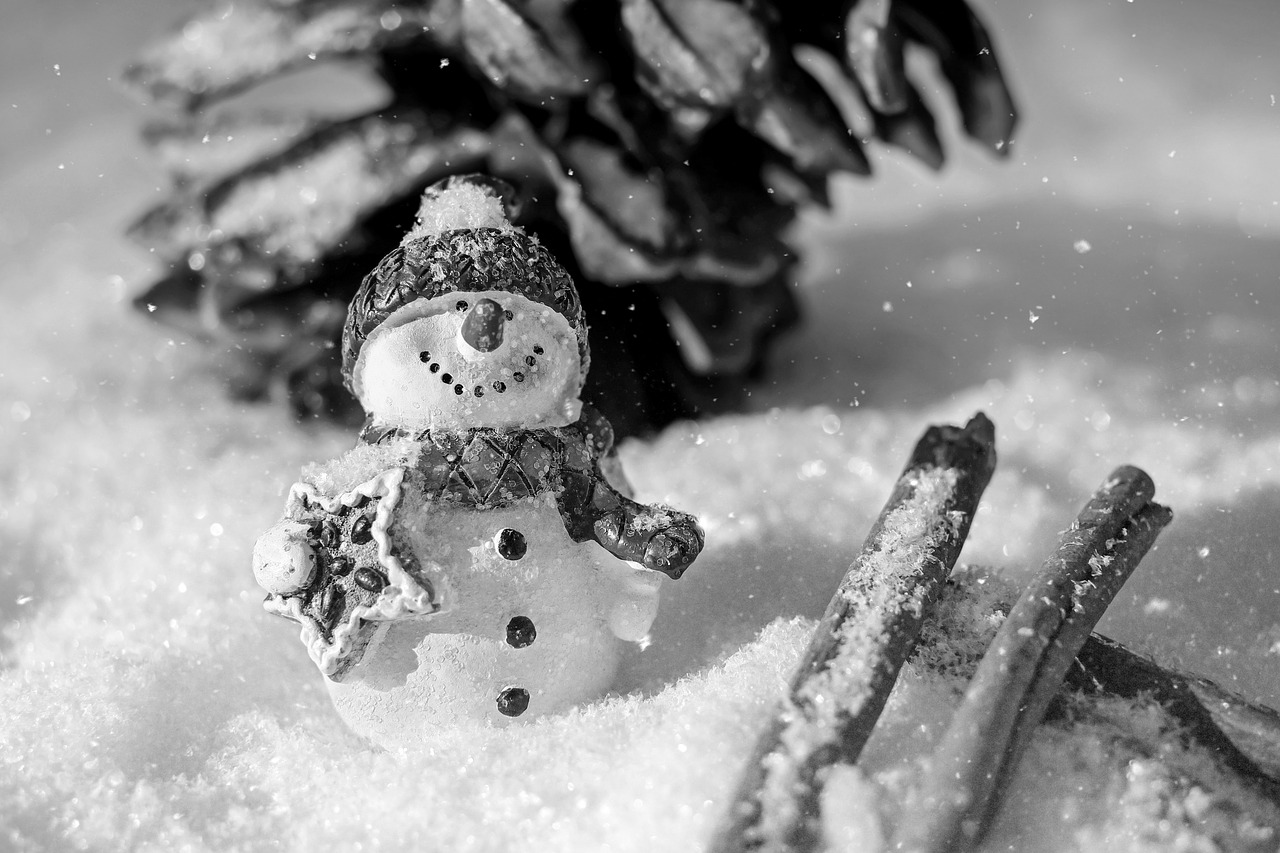
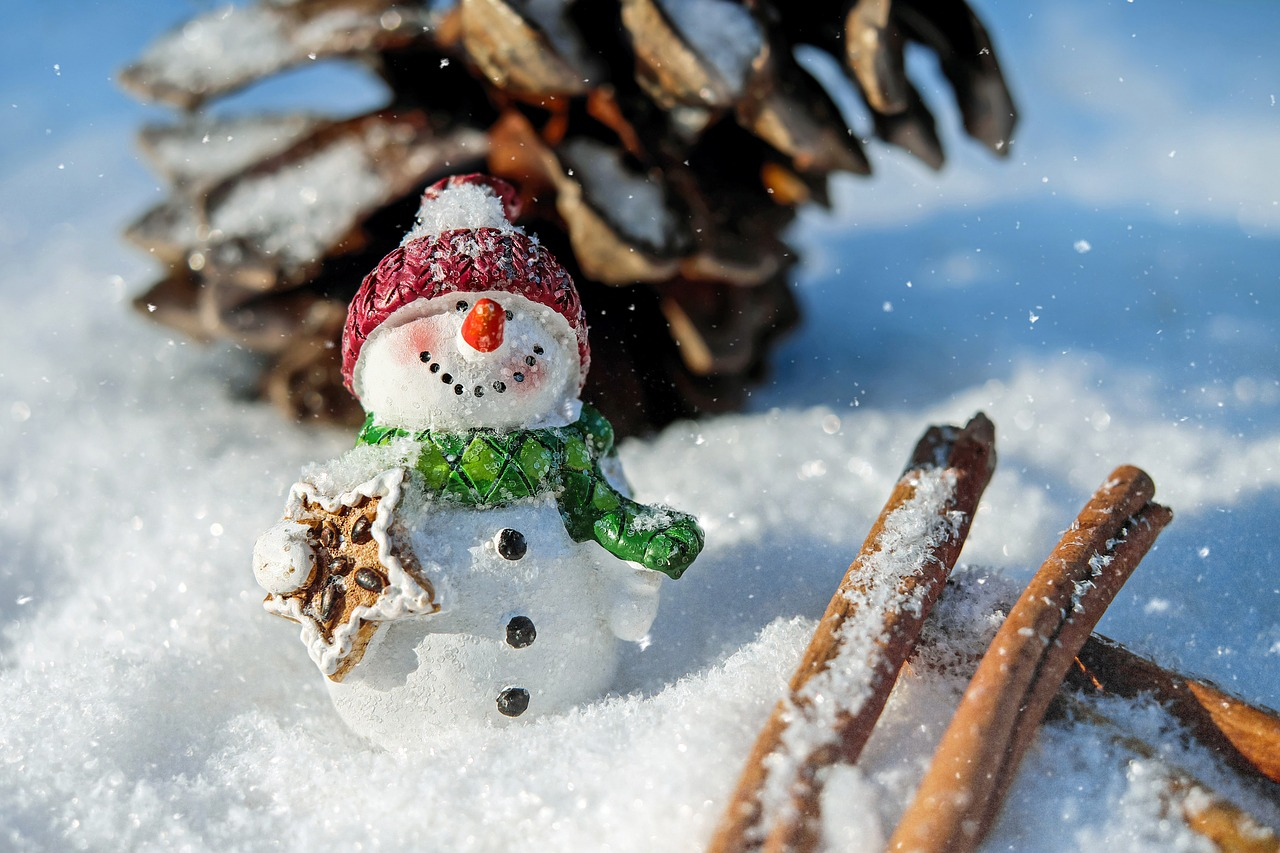
update: load_image

diff --git a/src/1_load_image.py b/src/1_load_image.py
@@ -19,8 +19,9 @@ cv2.destroyAllWindows()        关闭所有的串口。
 cv2.imwrite(image_file, img)   保存图片
 """
 def show_by_opencv():
-    img = cv2.imread('img/snowman.png',cv2.IMREAD_COLOR)
+    img = cv2.imread('img/snowman.png',cv2.IMREAD_GRAYSCALE)
     cv2.imshow('avatar',img)
+    
     cv2.waitKey(0)
     cv2.destroyAllWindows()
     cv2.imwrite('img/snowman_gray.png',img)
